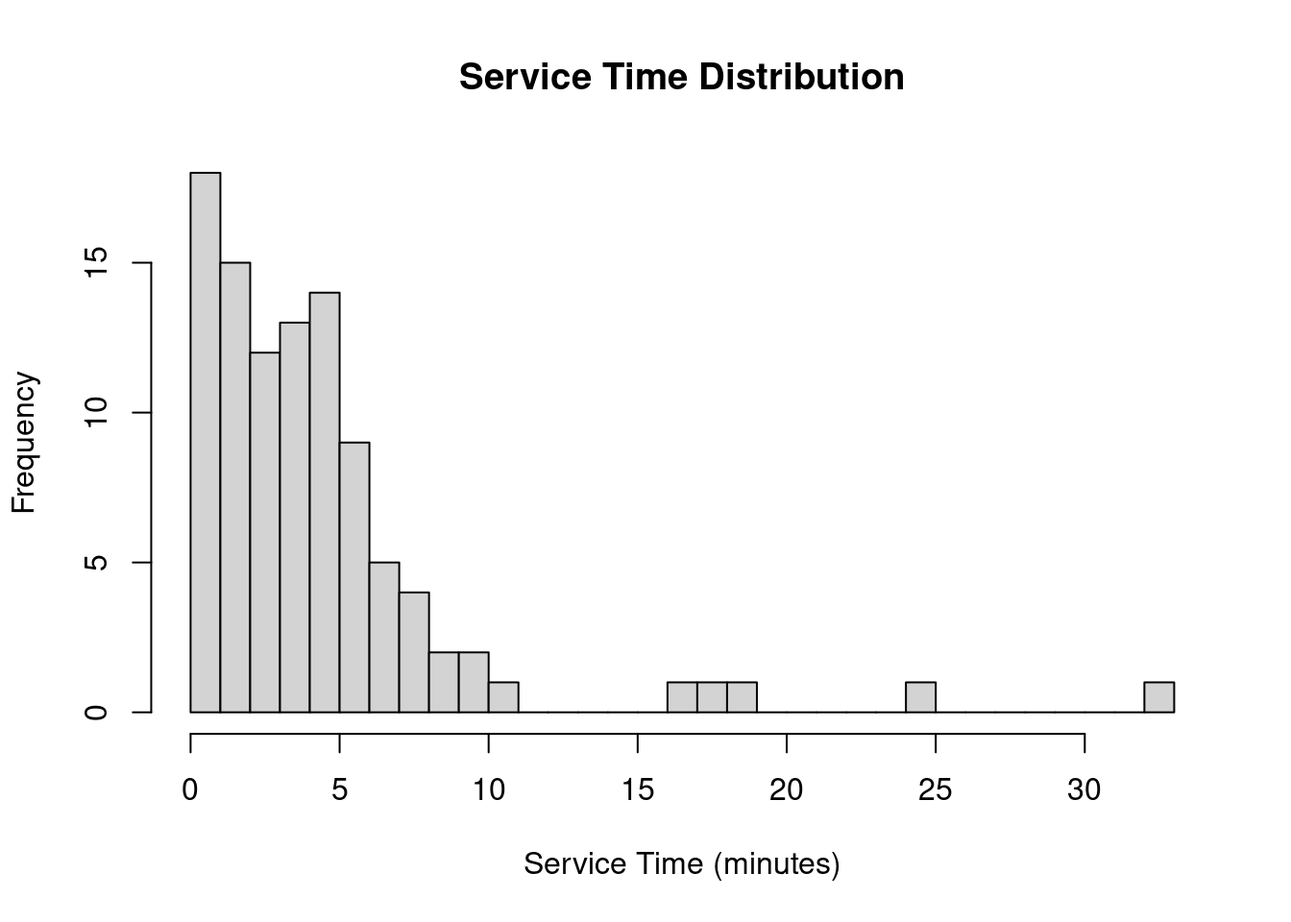
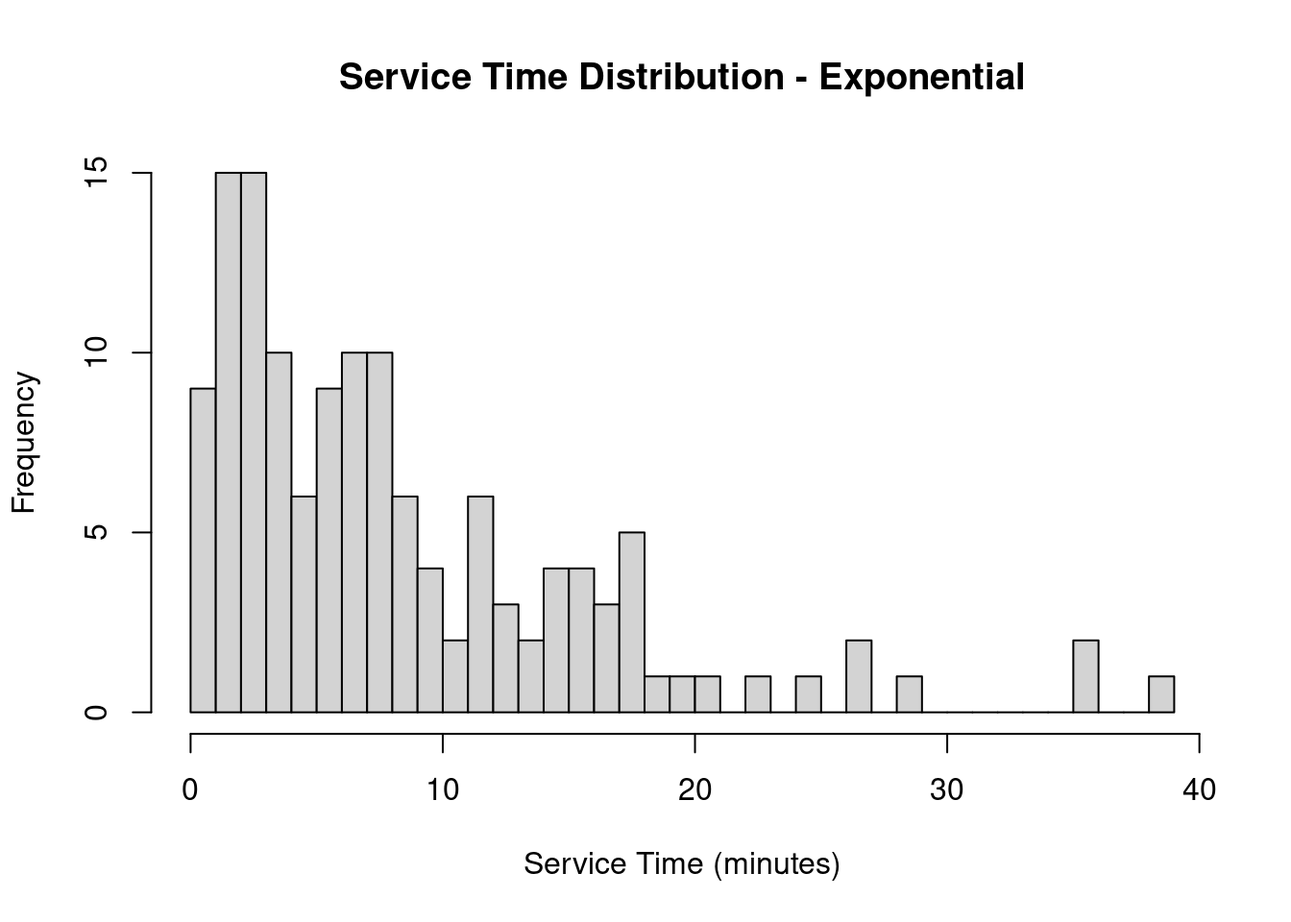
Final Scenario 3 changes

diff --git a/scenario3.html b/scenario3.html
@@ -81,11 +81,11 @@ pre > code.sourceCode > span > a:first-child::before { text-decoration: underlin
 
 
 <div class="cell">
-<div class="sourceCode cell-code" id="cb1"><pre class="sourceCode r code-with-copy"><code class="sourceCode r"><span id="cb1-1"><a href="#cb1-1" aria-hidden="true" tabindex="-1"></a><span class="fu">set.seed</span>(<span class="dv">111</span>)</span>
+<div class="sourceCode cell-code" id="cb1"><pre class="sourceCode r code-with-copy"><code class="sourceCode r"><span id="cb1-1"><a href="#cb1-1" aria-hidden="true" tabindex="-1"></a><span class="fu">set.seed</span>(<span class="dv">223</span>)</span>
 <span id="cb1-2"><a href="#cb1-2" aria-hidden="true" tabindex="-1"></a></span>
 <span id="cb1-3"><a href="#cb1-3" aria-hidden="true" tabindex="-1"></a>time_intervals <span class="ot">&lt;-</span> <span class="fu">c</span>(<span class="dv">0</span>, <span class="dv">120</span>, <span class="dv">300</span>, <span class="dv">420</span>, <span class="dv">720</span>)</span>
-<span id="cb1-4"><a href="#cb1-4" aria-hidden="true" tabindex="-1"></a>arrival_rates <span class="ot">&lt;-</span> <span class="fu">c</span>(<span class="dv">8</span>, <span class="dv">13</span>, <span class="dv">8</span>, <span class="dv">17</span>)</span>
-<span id="cb1-5"><a href="#cb1-5" aria-hidden="true" tabindex="-1"></a>service_rates <span class="ot">&lt;-</span> <span class="fu">c</span>(<span class="dv">4</span>, <span class="dv">4</span>, <span class="dv">4</span>, <span class="dv">4</span>, <span class="dv">4</span>, <span class="dv">4</span>, <span class="dv">4</span>, <span class="dv">6</span>, <span class="dv">6</span>, <span class="dv">6</span>, <span class="dv">6</span>, <span class="dv">6</span>)</span>
+<span id="cb1-4"><a href="#cb1-4" aria-hidden="true" tabindex="-1"></a>arrival_rates <span class="ot">&lt;-</span> <span class="fu">c</span>(<span class="dv">4</span>, <span class="dv">12</span>, <span class="dv">5</span>, <span class="dv">15</span>)</span>
+<span id="cb1-5"><a href="#cb1-5" aria-hidden="true" tabindex="-1"></a>service_rates <span class="ot">&lt;-</span> <span class="fu">c</span>(<span class="dv">6</span>,<span class="dv">6</span>,<span class="dv">6</span>,<span class="dv">6</span>,<span class="dv">6</span>,<span class="dv">6</span>,<span class="dv">6</span>,<span class="dv">9</span>,<span class="dv">9</span>,<span class="dv">9</span>,<span class="dv">9</span>,<span class="dv">9</span>,<span class="dv">9</span>,<span class="dv">9</span>)</span>
 <span id="cb1-6"><a href="#cb1-6" aria-hidden="true" tabindex="-1"></a>n_tables <span class="ot">&lt;-</span> <span class="dv">5</span></span>
 <span id="cb1-7"><a href="#cb1-7" aria-hidden="true" tabindex="-1"></a></span>
 <span id="cb1-8"><a href="#cb1-8" aria-hidden="true" tabindex="-1"></a><span class="co">#exponential rv</span></span>
@@ -124,14 +124,13 @@ pre > code.sourceCode > span > a:first-child::before { text-decoration: underlin
 </figure>
 </div>
 </div>
-<div class="sourceCode cell-code" id="cb2"><pre class="sourceCode r code-with-copy"><code class="sourceCode r"><span id="cb2-1"><a href="#cb2-1" aria-hidden="true" tabindex="-1"></a>service_times <span class="ot">&lt;-</span> <span class="fu">sapply</span>(arrival_times, <span class="cf">function</span>(t) {</span>
+<div class="sourceCode cell-code" id="cb2"><pre class="sourceCode r code-with-copy"><code class="sourceCode r"><span id="cb2-1"><a href="#cb2-1" aria-hidden="true" tabindex="-1"></a>service_times_old <span class="ot">&lt;-</span> <span class="fu">sapply</span>(arrival_times, <span class="cf">function</span>(t) {</span>
 <span id="cb2-2"><a href="#cb2-2" aria-hidden="true" tabindex="-1"></a>  hour <span class="ot">&lt;-</span> <span class="fu">ceiling</span>(t <span class="sc">/</span> <span class="dv">60</span>) </span>
 <span id="cb2-3"><a href="#cb2-3" aria-hidden="true" tabindex="-1"></a>  <span class="fu">rexp</span>(<span class="dv">1</span>, <span class="at">rate =</span> service_rates[hour]<span class="sc">/</span><span class="dv">60</span>)</span>
 <span id="cb2-4"><a href="#cb2-4" aria-hidden="true" tabindex="-1"></a>})</span>
 <span id="cb2-5"><a href="#cb2-5" aria-hidden="true" tabindex="-1"></a></span>
-<span id="cb2-6"><a href="#cb2-6" aria-hidden="true" tabindex="-1"></a>sample_service_times <span class="ot">&lt;-</span> <span class="fu">rexp</span>(<span class="dv">100</span>, <span class="at">rate =</span> <span class="fl">0.2</span>) </span>
-<span id="cb2-7"><a href="#cb2-7" aria-hidden="true" tabindex="-1"></a></span>
-<span id="cb2-8"><a href="#cb2-8" aria-hidden="true" tabindex="-1"></a><span class="fu">hist</span>(sample_service_times, <span class="at">main =</span> <span class="st">"Service Time Distribution"</span>, <span class="at">xlab =</span> <span class="st">"Service Time (minutes)"</span>, <span class="at">breaks =</span> <span class="dv">30</span>)</span></code><button title="Copy to Clipboard" class="code-copy-button"><i class="bi"></i></button></pre></div>
+<span id="cb2-6"><a href="#cb2-6" aria-hidden="true" tabindex="-1"></a></span>
+<span id="cb2-7"><a href="#cb2-7" aria-hidden="true" tabindex="-1"></a><span class="fu">hist</span>(service_times_old, <span class="at">main =</span> <span class="st">"Service Time Distribution - Exponential"</span>, <span class="at">xlab =</span> <span class="st">"Service Time (minutes)"</span>, <span class="at">breaks =</span> <span class="dv">30</span>)</span></code><button title="Copy to Clipboard" class="code-copy-button"><i class="bi"></i></button></pre></div>
 <div class="cell-output-display">
 <div>
 <figure class="figure">
@@ -139,170 +138,14 @@ pre > code.sourceCode > span > a:first-child::before { text-decoration: underlin
 </figure>
 </div>
 </div>
-<div class="sourceCode cell-code" id="cb3"><pre class="sourceCode r code-with-copy"><code class="sourceCode r"><span id="cb3-1"><a href="#cb3-1" aria-hidden="true" tabindex="-1"></a>current_time <span class="ot">&lt;-</span> <span class="dv">0</span></span>
-<span id="cb3-2"><a href="#cb3-2" aria-hidden="true" tabindex="-1"></a>downtime <span class="ot">&lt;-</span> <span class="dv">0</span></span>
-<span id="cb3-3"><a href="#cb3-3" aria-hidden="true" tabindex="-1"></a>queue <span class="ot">&lt;-</span> <span class="fu">c</span>()</span>
-<span id="cb3-4"><a href="#cb3-4" aria-hidden="true" tabindex="-1"></a>queue_lengths <span class="ot">&lt;-</span> <span class="fu">c</span>()</span>
-<span id="cb3-5"><a href="#cb3-5" aria-hidden="true" tabindex="-1"></a>busy_tables <span class="ot">&lt;-</span> <span class="fu">rep</span>(<span class="dv">0</span>, n_tables)</span>
-<span id="cb3-6"><a href="#cb3-6" aria-hidden="true" tabindex="-1"></a>waiting_times <span class="ot">&lt;-</span> <span class="fu">c</span>()</span>
+<div class="sourceCode cell-code" id="cb3"><pre class="sourceCode r code-with-copy"><code class="sourceCode r"><span id="cb3-1"><a href="#cb3-1" aria-hidden="true" tabindex="-1"></a>service_times <span class="ot">&lt;-</span> <span class="fu">sapply</span>(arrival_times, <span class="cf">function</span>(t) {</span>
+<span id="cb3-2"><a href="#cb3-2" aria-hidden="true" tabindex="-1"></a>  hour <span class="ot">&lt;-</span> <span class="fu">ceiling</span>(t <span class="sc">/</span> <span class="dv">60</span>) </span>
+<span id="cb3-3"><a href="#cb3-3" aria-hidden="true" tabindex="-1"></a>  shape <span class="ot">&lt;-</span> <span class="dv">2</span></span>
+<span id="cb3-4"><a href="#cb3-4" aria-hidden="true" tabindex="-1"></a>  rate <span class="ot">&lt;-</span> service_rates[hour] <span class="sc">/</span> <span class="dv">60</span></span>
+<span id="cb3-5"><a href="#cb3-5" aria-hidden="true" tabindex="-1"></a>  <span class="fu">rgamma</span>(<span class="dv">1</span>, <span class="at">shape =</span> shape, <span class="at">rate =</span> rate)</span>
+<span id="cb3-6"><a href="#cb3-6" aria-hidden="true" tabindex="-1"></a>})</span>
 <span id="cb3-7"><a href="#cb3-7" aria-hidden="true" tabindex="-1"></a></span>
-<span id="cb3-8"><a href="#cb3-8" aria-hidden="true" tabindex="-1"></a><span class="cf">for</span> (i <span class="cf">in</span> <span class="fu">seq_along</span>(arrival_times)) {</span>
-<span id="cb3-9"><a href="#cb3-9" aria-hidden="true" tabindex="-1"></a>  next_arrival <span class="ot">&lt;-</span> arrival_times[i]</span>
-<span id="cb3-10"><a href="#cb3-10" aria-hidden="true" tabindex="-1"></a>  <span class="cf">if</span> (<span class="fu">all</span>(busy_tables <span class="sc">==</span> <span class="dv">0</span>) <span class="sc">&amp;&amp;</span> current_time <span class="sc">&lt;</span> next_arrival) {</span>
-<span id="cb3-11"><a href="#cb3-11" aria-hidden="true" tabindex="-1"></a>    downtime <span class="ot">&lt;-</span> downtime <span class="sc">+</span> (next_arrival <span class="sc">-</span> current_time)</span>
-<span id="cb3-12"><a href="#cb3-12" aria-hidden="true" tabindex="-1"></a>    <span class="fu">print</span>(<span class="fu">paste</span>(<span class="st">"Downtime:"</span>, downtime))</span>
-<span id="cb3-13"><a href="#cb3-13" aria-hidden="true" tabindex="-1"></a>  }</span>
-<span id="cb3-14"><a href="#cb3-14" aria-hidden="true" tabindex="-1"></a>  current_time <span class="ot">&lt;-</span> next_arrival</span>
-<span id="cb3-15"><a href="#cb3-15" aria-hidden="true" tabindex="-1"></a>  busy_tables[busy_tables <span class="sc">&lt;=</span> current_time] <span class="ot">&lt;-</span> <span class="dv">0</span></span>
-<span id="cb3-16"><a href="#cb3-16" aria-hidden="true" tabindex="-1"></a>  <span class="cf">if</span> (<span class="fu">any</span>(busy_tables <span class="sc">==</span> <span class="dv">0</span>)) {</span>
-<span id="cb3-17"><a href="#cb3-17" aria-hidden="true" tabindex="-1"></a>    next_table <span class="ot">&lt;-</span> <span class="fu">which</span>(busy_tables <span class="sc">==</span> <span class="dv">0</span>)[<span class="dv">1</span>]</span>
-<span id="cb3-18"><a href="#cb3-18" aria-hidden="true" tabindex="-1"></a>    service_time <span class="ot">&lt;-</span> service_times[i]</span>
-<span id="cb3-19"><a href="#cb3-19" aria-hidden="true" tabindex="-1"></a>    busy_tables[next_table] <span class="ot">&lt;-</span> current_time <span class="sc">+</span> service_time</span>
-<span id="cb3-20"><a href="#cb3-20" aria-hidden="true" tabindex="-1"></a>    <span class="fu">print</span>(<span class="fu">paste</span>(<span class="st">"Seating customer at table"</span>, next_table, <span class="st">"at time:"</span>, current_time, <span class="st">"for service time:"</span>, service_time))</span>
-<span id="cb3-21"><a href="#cb3-21" aria-hidden="true" tabindex="-1"></a>    waiting_times <span class="ot">&lt;-</span> <span class="fu">c</span>(waiting_times, <span class="dv">0</span>)</span>
-<span id="cb3-22"><a href="#cb3-22" aria-hidden="true" tabindex="-1"></a>  } <span class="cf">else</span> {</span>
-<span id="cb3-23"><a href="#cb3-23" aria-hidden="true" tabindex="-1"></a>    queue <span class="ot">&lt;-</span> <span class="fu">c</span>(queue, current_time)</span>
-<span id="cb3-24"><a href="#cb3-24" aria-hidden="true" tabindex="-1"></a>  }</span>
-<span id="cb3-25"><a href="#cb3-25" aria-hidden="true" tabindex="-1"></a>  queue_lengths <span class="ot">&lt;-</span> <span class="fu">c</span>(queue_lengths, <span class="fu">length</span>(queue))</span>
-<span id="cb3-26"><a href="#cb3-26" aria-hidden="true" tabindex="-1"></a>  <span class="cf">while</span> (<span class="fu">length</span>(queue) <span class="sc">&gt;</span> <span class="dv">0</span> <span class="sc">&amp;&amp;</span> <span class="fu">any</span>(busy_tables <span class="sc">==</span> <span class="dv">0</span>)) {</span>
-<span id="cb3-27"><a href="#cb3-27" aria-hidden="true" tabindex="-1"></a>    next_table <span class="ot">&lt;-</span> <span class="fu">which</span>(busy_tables <span class="sc">==</span> <span class="dv">0</span>)[<span class="dv">1</span>]</span>
-<span id="cb3-28"><a href="#cb3-28" aria-hidden="true" tabindex="-1"></a>    wait_time <span class="ot">&lt;-</span> current_time <span class="sc">-</span> queue[<span class="dv">1</span>]</span>
-<span id="cb3-29"><a href="#cb3-29" aria-hidden="true" tabindex="-1"></a>    waiting_times <span class="ot">&lt;-</span> <span class="fu">c</span>(waiting_times, wait_time)</span>
-<span id="cb3-30"><a href="#cb3-30" aria-hidden="true" tabindex="-1"></a>    service_time <span class="ot">&lt;-</span> service_times[i]</span>
-<span id="cb3-31"><a href="#cb3-31" aria-hidden="true" tabindex="-1"></a>    busy_tables[next_table] <span class="ot">&lt;-</span> current_time <span class="sc">+</span> service_time</span>
-<span id="cb3-32"><a href="#cb3-32" aria-hidden="true" tabindex="-1"></a>    queue <span class="ot">&lt;-</span> queue[<span class="sc">-</span><span class="dv">1</span>] </span>
-<span id="cb3-33"><a href="#cb3-33" aria-hidden="true" tabindex="-1"></a>    queue_lengths <span class="ot">&lt;-</span> <span class="fu">c</span>(queue_lengths, <span class="fu">length</span>(queue))</span>
-<span id="cb3-34"><a href="#cb3-34" aria-hidden="true" tabindex="-1"></a>  }</span>
-<span id="cb3-35"><a href="#cb3-35" aria-hidden="true" tabindex="-1"></a>}</span></code><button title="Copy to Clipboard" class="code-copy-button"><i class="bi"></i></button></pre></div>
-<div class="cell-output cell-output-stdout">
-<pre><code>[1] "Downtime: 1.27894140779972"
-[1] "Seating customer at table 1 at time: 1.27894140779972 for service time: 4.99000896932557"
-[1] "Seating customer at table 2 at time: 5.70574239827693 for service time: 11.5611630297139"
-[1] "Seating customer at table 1 at time: 8.05693720467389 for service time: 1.91609330708161"
-[1] "Seating customer at table 1 at time: 11.2417823821306 for service time: 5.32095698862204"
-[1] "Seating customer at table 1 at time: 18.744301898405 for service time: 53.0929295247327"
-[1] "Seating customer at table 2 at time: 20.5732424464077 for service time: 11.7978875425862"
-[1] "Seating customer at table 2 at time: 44.4506404269487 for service time: 7.34908571932465"
-[1] "Seating customer at table 3 at time: 45.3195859026164 for service time: 7.3618605080992"
-[1] "Seating customer at table 4 at time: 50.2004790958017 for service time: 25.8023301778797"
-[1] "Seating customer at table 2 at time: 51.8592739664018 for service time: 1.78684489935833"
-[1] "Seating customer at table 3 at time: 53.5713316127658 for service time: 46.5967430521674"
-[1] "Seating customer at table 2 at time: 61.790859606117 for service time: 28.5764023649011"
-[1] "Seating customer at table 5 at time: 63.8754290621728 for service time: 7.84265496768057"
-[1] "Seating customer at table 1 at time: 115.984115190804 for service time: 0.838023440546181"
-[1] "Seating customer at table 1 at time: 125.898896539584 for service time: 34.402396634911"
-[1] "Seating customer at table 2 at time: 130.54736324586 for service time: 21.9680363222815"
-[1] "Seating customer at table 3 at time: 140.936786709353 for service time: 7.54442345914747"
-[1] "Seating customer at table 1 at time: 170.994629943743 for service time: 32.0763921768742"
-[1] "Seating customer at table 2 at time: 171.394876465201 for service time: 2.43470409186557"
-[1] "Seating customer at table 2 at time: 177.964810947888 for service time: 23.3128203564427"
-[1] "Seating customer at table 3 at time: 179.128496171907 for service time: 27.0416701944981"
-[1] "Seating customer at table 4 at time: 179.939042469487 for service time: 2.11209669476375"
-[1] "Seating customer at table 5 at time: 181.587242474779 for service time: 24.4442041485075"
-[1] "Seating customer at table 4 at time: 184.754166975617 for service time: 17.9602010293507"
-[1] "Seating customer at table 1 at time: 203.842637334019 for service time: 14.4208915990995"
-[1] "Seating customer at table 3 at time: 211.781974802725 for service time: 2.86719965049997"
-[1] "Seating customer at table 1 at time: 218.689206582494 for service time: 11.3737117946452"
-[1] "Seating customer at table 3 at time: 223.543596784584 for service time: 7.52846368588507"
-[1] "Seating customer at table 4 at time: 225.308049763553 for service time: 34.6234531216046"
-[1] "Seating customer at table 5 at time: 227.265714327805 for service time: 7.91566439459352"
-[1] "Seating customer at table 1 at time: 233.039203262888 for service time: 4.59619092056528"
-[1] "Seating customer at table 2 at time: 234.424371812493 for service time: 0.875416717548305"
-[1] "Seating customer at table 2 at time: 235.415614508092 for service time: 1.61187532274381"
-[1] "Seating customer at table 3 at time: 235.585327888839 for service time: 3.43397245975211"
-[1] "Seating customer at table 2 at time: 237.581301857717 for service time: 35.5592003538927"
-[1] "Seating customer at table 1 at time: 248.41386354994 for service time: 2.06347739199293"
-[1] "Seating customer at table 1 at time: 250.529669984244 for service time: 29.2899150854412"
-[1] "Seating customer at table 3 at time: 261.118671717122 for service time: 5.54471567777009"
-[1] "Seating customer at table 4 at time: 261.737025459297 for service time: 1.20579633163288"
-[1] "Seating customer at table 5 at time: 262.879615779966 for service time: 2.20451671862975"
-[1] "Seating customer at table 4 at time: 264.918164410628 for service time: 2.40702966740006"
-[1] "Seating customer at table 2 at time: 274.065948813222 for service time: 0.57334143693932"
-[1] "Seating customer at table 1 at time: 287.133448426612 for service time: 32.5353821254989"
-[1] "Seating customer at table 2 at time: 294.154946208 for service time: 13.7606545065735"
-[1] "Seating customer at table 3 at time: 299.408999048173 for service time: 67.7519227340262"
-[1] "Seating customer at table 4 at time: 300.111036077142 for service time: 28.5272745216701"
-[1] "Seating customer at table 5 at time: 301.407097801566 for service time: 8.16001716535538"
-[1] "Seating customer at table 2 at time: 311.58942785114 for service time: 5.00886627472937"
-[1] "Seating customer at table 1 at time: 320.791304754093 for service time: 18.9060795440556"
-[1] "Seating customer at table 5 at time: 327.831550128758 for service time: 11.7727272066506"
-[1] "Seating customer at table 4 at time: 331.106707770377 for service time: 12.6865127071025"
-[1] "Seating customer at table 1 at time: 354.451780160889 for service time: 7.1275767730549"
-[1] "Seating customer at table 5 at time: 356.009285654873 for service time: 1.93290903232992"
-[1] "Seating customer at table 1 at time: 379.833447318524 for service time: 11.5940851851584"
-[1] "Seating customer at table 1 at time: 396.664821021259 for service time: 2.4748663432071"
-[1] "Seating customer at table 1 at time: 405.310073532164 for service time: 9.2954975925386"
-[1] "Seating customer at table 2 at time: 410.313849784434 for service time: 26.0807719098765"
-[1] "Seating customer at table 1 at time: 423.63551331684 for service time: 0.88959150376599"
-[1] "Seating customer at table 1 at time: 431.648712912574 for service time: 6.11083668190986"
-[1] "Seating customer at table 3 at time: 433.936981838197 for service time: 9.44566878208868"
-[1] "Seating customer at table 1 at time: 443.754278873093 for service time: 6.16353428922594"
-[1] "Seating customer at table 2 at time: 445.984204094857 for service time: 7.14249451712308"
-[1] "Seating customer at table 3 at time: 447.114304807037 for service time: 5.78041905071586"
-[1] "Seating customer at table 4 at time: 448.53724595625 for service time: 7.06320415208948"
-[1] "Seating customer at table 1 at time: 451.360365380533 for service time: 2.28182554710656"
-[1] "Seating customer at table 2 at time: 453.595709572546 for service time: 1.61187607795"
-[1] "Seating customer at table 1 at time: 455.955654527061 for service time: 0.0328358133051269"
-[1] "Seating customer at table 1 at time: 459.034913945943 for service time: 9.25055621923733"
-[1] "Seating customer at table 2 at time: 459.329420076683 for service time: 4.6517775096672"
-[1] "Seating customer at table 3 at time: 460.864676283672 for service time: 22.5849385889872"
-[1] "Seating customer at table 1 at time: 469.315477930941 for service time: 2.65867650043219"
-[1] "Seating customer at table 1 at time: 472.885418152437 for service time: 2.82383863348514"
-[1] "Seating customer at table 1 at time: 479.526883112267 for service time: 11.1716833240808"
-[1] "Seating customer at table 2 at time: 483.019201252609 for service time: 9.65629785279644"
-[1] "Seating customer at table 3 at time: 484.696431602351 for service time: 14.8276489592137"
-[1] "Seating customer at table 1 at time: 493.83444509469 for service time: 6.55286858323961"
-[1] "Seating customer at table 2 at time: 495.397085817531 for service time: 8.80801386157882"
-[1] "Seating customer at table 4 at time: 499.153884295374 for service time: 6.35277015157044"
-[1] "Seating customer at table 5 at time: 499.264166532084 for service time: 3.14251281423027"
-[1] "Seating customer at table 3 at time: 500.108601646498 for service time: 3.03093639202416"
-[1] "Seating customer at table 1 at time: 508.121277512982 for service time: 3.98288077209145"
-[1] "Seating customer at table 1 at time: 525.289622442797 for service time: 1.00819880608469"
-[1] "Seating customer at table 2 at time: 525.447993194684 for service time: 6.34244672488421"
-[1] "Seating customer at table 1 at time: 532.439939752221 for service time: 7.72982077631068"
-[1] "Seating customer at table 2 at time: 536.14492891822 for service time: 1.30489839071995"
-[1] "Seating customer at table 2 at time: 539.426844315603 for service time: 1.33092812728137"
-[1] "Seating customer at table 3 at time: 540.101362885907 for service time: 6.08273030724376"
-[1] "Seating customer at table 1 at time: 544.298044340685 for service time: 7.14246105360699"
-[1] "Seating customer at table 1 at time: 554.512018435635 for service time: 1.38875148724765"
-[1] "Seating customer at table 1 at time: 556.631492315792 for service time: 8.76914294394565"
-[1] "Seating customer at table 2 at time: 558.253388064913 for service time: 10.7366318903388"
-[1] "Seating customer at table 3 at time: 563.575991154648 for service time: 10.5517501566083"
-[1] "Seating customer at table 1 at time: 573.329695388675 for service time: 2.16839378233999"
-[1] "Seating customer at table 2 at time: 574.385886294767 for service time: 1.33105030748993"
-[1] "Seating customer at table 1 at time: 584.673814550042 for service time: 27.1577257464144"
-[1] "Seating customer at table 2 at time: 588.977360730059 for service time: 9.95265422346902"
-[1] "Seating customer at table 3 at time: 590.849325251766 for service time: 7.67972381485285"
-[1] "Seating customer at table 4 at time: 592.799118049443 for service time: 0.785282379947603"
-[1] "Seating customer at table 4 at time: 593.701772396453 for service time: 0.668709171004593"
-[1] "Seating customer at table 5 at time: 593.995604971424 for service time: 6.33270762395114"
-[1] "Seating customer at table 2 at time: 604.758997731842 for service time: 8.9941723454268"
-[1] "Seating customer at table 4 at time: 605.135852149688 for service time: 24.6175244624231"
-[1] "Seating customer at table 5 at time: 608.946346845478 for service time: 26.4617202232096"
-[1] "Seating customer at table 1 at time: 612.018696153536 for service time: 8.75247634343408"
-[1] "Seating customer at table 2 at time: 615.276328129694 for service time: 9.79992653819334"
-[1] "Seating customer at table 1 at time: 624.058593744412 for service time: 4.17881041299552"
-[1] "Seating customer at table 2 at time: 625.435805115849 for service time: 5.10650013573468"
-[1] "Seating customer at table 1 at time: 640.431802701205 for service time: 5.15621345490217"
-[1] "Seating customer at table 1 at time: 651.284320936538 for service time: 8.81122489417803"
-[1] "Seating customer at table 5 at time: 654.433019114658 for service time: 15.7164195061651"
-[1] "Seating customer at table 1 at time: 665.649100025184 for service time: 17.9505378372016"
-[1] "Seating customer at table 3 at time: 665.911567797884 for service time: 6.38695605564862"
-[1] "Seating customer at table 4 at time: 667.344660270028 for service time: 11.2020430989088"
-[1] "Seating customer at table 5 at time: 670.806034519337 for service time: 18.7390661231222"
-[1] "Seating customer at table 3 at time: 674.108187952079 for service time: 14.534786659384"
-[1] "Seating customer at table 4 at time: 681.191911180504 for service time: 12.7137394897164"
-[1] "Seating customer at table 1 at time: 684.364640135318 for service time: 38.5387048663056"
-[1] "Seating customer at table 3 at time: 691.171301370487 for service time: 0.820740358904004"
-[1] "Seating customer at table 3 at time: 695.991593138315 for service time: 12.2348552193017"
-[1] "Seating customer at table 3 at time: 709.18393899221 for service time: 26.6934985841129"</code></pre>
-</div>
-<div class="sourceCode cell-code" id="cb5"><pre class="sourceCode r code-with-copy"><code class="sourceCode r"><span id="cb5-1"><a href="#cb5-1" aria-hidden="true" tabindex="-1"></a><span class="fu">plot</span>(queue_lengths, <span class="at">type =</span> <span class="st">"l"</span>, <span class="at">xlab =</span> <span class="st">"Time"</span>, <span class="at">ylab =</span> <span class="st">"Queue Length"</span>, </span>
-<span id="cb5-2"><a href="#cb5-2" aria-hidden="true" tabindex="-1"></a>     <span class="at">main =</span> <span class="st">"Queue Length Over Time"</span>, <span class="at">col =</span> <span class="st">"blue"</span>, <span class="at">lwd =</span> <span class="dv">2</span>, </span>
-<span id="cb5-3"><a href="#cb5-3" aria-hidden="true" tabindex="-1"></a>     <span class="at">xaxt =</span> <span class="st">"n"</span>, <span class="at">xlim =</span> <span class="fu">c</span>(<span class="dv">0</span>, <span class="fu">length</span>(queue_lengths)))</span>
-<span id="cb5-4"><a href="#cb5-4" aria-hidden="true" tabindex="-1"></a></span>
-<span id="cb5-5"><a href="#cb5-5" aria-hidden="true" tabindex="-1"></a><span class="fu">axis</span>(<span class="dv">1</span>, <span class="at">at =</span> <span class="fu">seq</span>(<span class="dv">1</span>, <span class="fu">length</span>(queue_lengths), <span class="at">by =</span> <span class="fu">length</span>(queue_lengths) <span class="sc">/</span> <span class="dv">12</span>), </span>
-<span id="cb5-6"><a href="#cb5-6" aria-hidden="true" tabindex="-1"></a>     <span class="at">labels =</span> <span class="fu">paste</span>(<span class="dv">10</span> <span class="sc">+</span> (<span class="fu">seq</span>(<span class="dv">1</span>, <span class="fu">length</span>(queue_lengths), <span class="at">by =</span> <span class="fu">length</span>(queue_lengths) <span class="sc">/</span> <span class="dv">12</span>) <span class="sc">-</span> <span class="dv">1</span>) <span class="sc">/</span> (<span class="fu">length</span>(queue_lengths) <span class="sc">/</span> <span class="dv">12</span>), <span class="st">"HRS"</span>, <span class="at">sep=</span><span class="st">""</span>))</span></code><button title="Copy to Clipboard" class="code-copy-button"><i class="bi"></i></button></pre></div>
+<span id="cb3-8"><a href="#cb3-8" aria-hidden="true" tabindex="-1"></a><span class="fu">hist</span>(service_times, <span class="at">main =</span> <span class="st">"Service Time Distribution - Gamma"</span>, <span class="at">xlab =</span> <span class="st">"Service Time (minutes)"</span>, <span class="at">breaks =</span> <span class="dv">30</span>)</span></code><button title="Copy to Clipboard" class="code-copy-button"><i class="bi"></i></button></pre></div>
 <div class="cell-output-display">
 <div>
 <figure class="figure">
@@ -310,15 +153,77 @@ pre > code.sourceCode > span > a:first-child::before { text-decoration: underlin
 </figure>
 </div>
 </div>
-<div class="sourceCode cell-code" id="cb6"><pre class="sourceCode r code-with-copy"><code class="sourceCode r"><span id="cb6-1"><a href="#cb6-1" aria-hidden="true" tabindex="-1"></a>avg_wait_time <span class="ot">&lt;-</span> <span class="cf">if</span> (<span class="fu">length</span>(waiting_times) <span class="sc">&gt;</span> <span class="dv">0</span>) <span class="fu">mean</span>(waiting_times) <span class="cf">else</span> <span class="dv">0</span></span>
-<span id="cb6-2"><a href="#cb6-2" aria-hidden="true" tabindex="-1"></a></span>
-<span id="cb6-3"><a href="#cb6-3" aria-hidden="true" tabindex="-1"></a><span class="fu">cat</span>(<span class="st">"Average Waiting Time Across All Customers:"</span>, avg_wait_time, <span class="st">"minutes</span><span class="sc">\n</span><span class="st">"</span>)</span></code><button title="Copy to Clipboard" class="code-copy-button"><i class="bi"></i></button></pre></div>
-<div class="cell-output cell-output-stdout">
-<pre><code>Average Waiting Time Across All Customers: 3.022725 minutes</code></pre>
+<div class="sourceCode cell-code" id="cb4"><pre class="sourceCode r code-with-copy"><code class="sourceCode r"><span id="cb4-1"><a href="#cb4-1" aria-hidden="true" tabindex="-1"></a>current_time <span class="ot">&lt;-</span> <span class="dv">0</span></span>
+<span id="cb4-2"><a href="#cb4-2" aria-hidden="true" tabindex="-1"></a>downtime <span class="ot">&lt;-</span> <span class="dv">0</span></span>
+<span id="cb4-3"><a href="#cb4-3" aria-hidden="true" tabindex="-1"></a>queue <span class="ot">&lt;-</span> <span class="fu">c</span>()</span>
+<span id="cb4-4"><a href="#cb4-4" aria-hidden="true" tabindex="-1"></a>queue_lengths <span class="ot">&lt;-</span> <span class="fu">c</span>()</span>
+<span id="cb4-5"><a href="#cb4-5" aria-hidden="true" tabindex="-1"></a>busy_tables <span class="ot">&lt;-</span> <span class="fu">rep</span>(<span class="dv">0</span>, n_tables)</span>
+<span id="cb4-6"><a href="#cb4-6" aria-hidden="true" tabindex="-1"></a>waiting_times <span class="ot">&lt;-</span> <span class="fu">c</span>()</span>
+<span id="cb4-7"><a href="#cb4-7" aria-hidden="true" tabindex="-1"></a>queue_waiting_times <span class="ot">&lt;-</span> <span class="fu">c</span>()</span>
+<span id="cb4-8"><a href="#cb4-8" aria-hidden="true" tabindex="-1"></a></span>
+<span id="cb4-9"><a href="#cb4-9" aria-hidden="true" tabindex="-1"></a><span class="cf">for</span> (i <span class="cf">in</span> <span class="fu">seq_along</span>(arrival_times)) {</span>
+<span id="cb4-10"><a href="#cb4-10" aria-hidden="true" tabindex="-1"></a>  next_arrival <span class="ot">&lt;-</span> arrival_times[i<span class="sc">+</span><span class="dv">1</span>]</span>
+<span id="cb4-11"><a href="#cb4-11" aria-hidden="true" tabindex="-1"></a>  current_time <span class="ot">&lt;-</span> arrival_times[i]</span>
+<span id="cb4-12"><a href="#cb4-12" aria-hidden="true" tabindex="-1"></a>  <span class="cf">if</span>(<span class="fu">all</span>(busy_tables <span class="sc">&lt;=</span> current_time)){</span>
+<span id="cb4-13"><a href="#cb4-13" aria-hidden="true" tabindex="-1"></a>    <span class="co">#print(paste("All tables free"))</span></span>
+<span id="cb4-14"><a href="#cb4-14" aria-hidden="true" tabindex="-1"></a>  }</span>
+<span id="cb4-15"><a href="#cb4-15" aria-hidden="true" tabindex="-1"></a>  <span class="cf">if</span> (<span class="fu">all</span>(busy_tables <span class="sc">&lt;=</span> current_time) <span class="sc">&amp;&amp;</span> <span class="fu">length</span>(queue) <span class="sc">==</span> <span class="dv">0</span>) {</span>
+<span id="cb4-16"><a href="#cb4-16" aria-hidden="true" tabindex="-1"></a>    downtime <span class="ot">&lt;-</span> downtime <span class="sc">+</span> (next_arrival <span class="sc">-</span> current_time)</span>
+<span id="cb4-17"><a href="#cb4-17" aria-hidden="true" tabindex="-1"></a>    <span class="co">#print(paste("Downtime:", downtime))</span></span>
+<span id="cb4-18"><a href="#cb4-18" aria-hidden="true" tabindex="-1"></a>  }</span>
+<span id="cb4-19"><a href="#cb4-19" aria-hidden="true" tabindex="-1"></a>  busy_tables[busy_tables <span class="sc">&lt;=</span> current_time] <span class="ot">&lt;-</span> <span class="dv">0</span></span>
+<span id="cb4-20"><a href="#cb4-20" aria-hidden="true" tabindex="-1"></a>  <span class="cf">if</span> (<span class="fu">any</span>(busy_tables <span class="sc">==</span> <span class="dv">0</span>)) {</span>
+<span id="cb4-21"><a href="#cb4-21" aria-hidden="true" tabindex="-1"></a>    next_table <span class="ot">&lt;-</span> <span class="fu">which</span>(busy_tables <span class="sc">==</span> <span class="dv">0</span>)[<span class="dv">1</span>]</span>
+<span id="cb4-22"><a href="#cb4-22" aria-hidden="true" tabindex="-1"></a>    service_time <span class="ot">&lt;-</span> service_times[i]</span>
+<span id="cb4-23"><a href="#cb4-23" aria-hidden="true" tabindex="-1"></a>    busy_tables[next_table] <span class="ot">&lt;-</span> current_time <span class="sc">+</span> service_time</span>
+<span id="cb4-24"><a href="#cb4-24" aria-hidden="true" tabindex="-1"></a>    <span class="co">#print(paste("Seating customer at table", next_table, "at time:", current_time, "for service time:", service_time))</span></span>
+<span id="cb4-25"><a href="#cb4-25" aria-hidden="true" tabindex="-1"></a>    waiting_times <span class="ot">&lt;-</span> <span class="fu">c</span>(waiting_times, <span class="dv">0</span>)</span>
+<span id="cb4-26"><a href="#cb4-26" aria-hidden="true" tabindex="-1"></a>  } <span class="cf">else</span> {</span>
+<span id="cb4-27"><a href="#cb4-27" aria-hidden="true" tabindex="-1"></a>    queue <span class="ot">&lt;-</span> <span class="fu">c</span>(queue, current_time)</span>
+<span id="cb4-28"><a href="#cb4-28" aria-hidden="true" tabindex="-1"></a>  }</span>
+<span id="cb4-29"><a href="#cb4-29" aria-hidden="true" tabindex="-1"></a>  queue_lengths <span class="ot">&lt;-</span> <span class="fu">c</span>(queue_lengths, <span class="fu">length</span>(queue))</span>
+<span id="cb4-30"><a href="#cb4-30" aria-hidden="true" tabindex="-1"></a>  <span class="cf">while</span> (<span class="fu">length</span>(queue) <span class="sc">&gt;</span> <span class="dv">0</span> <span class="sc">&amp;&amp;</span> <span class="fu">any</span>(busy_tables <span class="sc">==</span> <span class="dv">0</span>)) {</span>
+<span id="cb4-31"><a href="#cb4-31" aria-hidden="true" tabindex="-1"></a>    next_table <span class="ot">&lt;-</span> <span class="fu">which</span>(busy_tables <span class="sc">==</span> <span class="dv">0</span>)[<span class="dv">1</span>]</span>
+<span id="cb4-32"><a href="#cb4-32" aria-hidden="true" tabindex="-1"></a>    wait_time <span class="ot">&lt;-</span> current_time <span class="sc">-</span> queue[<span class="dv">1</span>]</span>
+<span id="cb4-33"><a href="#cb4-33" aria-hidden="true" tabindex="-1"></a>    waiting_times <span class="ot">&lt;-</span> <span class="fu">c</span>(waiting_times, wait_time)</span>
+<span id="cb4-34"><a href="#cb4-34" aria-hidden="true" tabindex="-1"></a>    queue_waiting_times <span class="ot">&lt;-</span> <span class="fu">c</span>(queue_waiting_times, wait_time)</span>
+<span id="cb4-35"><a href="#cb4-35" aria-hidden="true" tabindex="-1"></a>    service_time <span class="ot">&lt;-</span> service_times[i]</span>
+<span id="cb4-36"><a href="#cb4-36" aria-hidden="true" tabindex="-1"></a>    busy_tables[next_table] <span class="ot">&lt;-</span> current_time <span class="sc">+</span> service_time</span>
+<span id="cb4-37"><a href="#cb4-37" aria-hidden="true" tabindex="-1"></a>    queue <span class="ot">&lt;-</span> queue[<span class="sc">-</span><span class="dv">1</span>] </span>
+<span id="cb4-38"><a href="#cb4-38" aria-hidden="true" tabindex="-1"></a>    queue_lengths <span class="ot">&lt;-</span> <span class="fu">c</span>(queue_lengths, <span class="fu">length</span>(queue))</span>
+<span id="cb4-39"><a href="#cb4-39" aria-hidden="true" tabindex="-1"></a>  }</span>
+<span id="cb4-40"><a href="#cb4-40" aria-hidden="true" tabindex="-1"></a>}</span>
+<span id="cb4-41"><a href="#cb4-41" aria-hidden="true" tabindex="-1"></a></span>
+<span id="cb4-42"><a href="#cb4-42" aria-hidden="true" tabindex="-1"></a>first_downtime <span class="ot">&lt;-</span> arrival_times[<span class="dv">1</span>]</span>
+<span id="cb4-43"><a href="#cb4-43" aria-hidden="true" tabindex="-1"></a>total_dowtime <span class="ot">&lt;-</span> downtime <span class="sc">+</span> first_downtime</span>
+<span id="cb4-44"><a href="#cb4-44" aria-hidden="true" tabindex="-1"></a></span>
+<span id="cb4-45"><a href="#cb4-45" aria-hidden="true" tabindex="-1"></a><span class="fu">plot</span>(queue_lengths, <span class="at">type =</span> <span class="st">"l"</span>, <span class="at">xlab =</span> <span class="st">"Time"</span>, <span class="at">ylab =</span> <span class="st">"Queue Length"</span>, </span>
+<span id="cb4-46"><a href="#cb4-46" aria-hidden="true" tabindex="-1"></a>     <span class="at">main =</span> <span class="st">"Queue Length Over Time"</span>, <span class="at">col =</span> <span class="st">"blue"</span>, <span class="at">lwd =</span> <span class="dv">2</span>, </span>
+<span id="cb4-47"><a href="#cb4-47" aria-hidden="true" tabindex="-1"></a>     <span class="at">xaxt =</span> <span class="st">"n"</span>, <span class="at">xlim =</span> <span class="fu">c</span>(<span class="dv">0</span>, <span class="fu">length</span>(queue_lengths)))</span>
+<span id="cb4-48"><a href="#cb4-48" aria-hidden="true" tabindex="-1"></a></span>
+<span id="cb4-49"><a href="#cb4-49" aria-hidden="true" tabindex="-1"></a><span class="fu">axis</span>(<span class="dv">1</span>, <span class="at">at =</span> <span class="fu">seq</span>(<span class="dv">1</span>, <span class="fu">length</span>(queue_lengths), <span class="at">by =</span> <span class="fu">length</span>(queue_lengths) <span class="sc">/</span> <span class="dv">12</span>), </span>
+<span id="cb4-50"><a href="#cb4-50" aria-hidden="true" tabindex="-1"></a>     <span class="at">labels =</span> <span class="fu">paste</span>(<span class="dv">10</span> <span class="sc">+</span> (<span class="fu">seq</span>(<span class="dv">1</span>, <span class="fu">length</span>(queue_lengths), <span class="at">by =</span> <span class="fu">length</span>(queue_lengths) <span class="sc">/</span> <span class="dv">12</span>) <span class="sc">-</span> <span class="dv">1</span>) <span class="sc">/</span> (<span class="fu">length</span>(queue_lengths) <span class="sc">/</span> <span class="dv">12</span>), <span class="st">"HRS"</span>, <span class="at">sep=</span><span class="st">""</span>))</span></code><button title="Copy to Clipboard" class="code-copy-button"><i class="bi"></i></button></pre></div>
+<div class="cell-output-display">
+<div>
+<figure class="figure">
+<p><img src="scenario3_files/figure-html/unnamed-chunk-1-4.png" class="img-fluid figure-img" width="672"></p>
+</figure>
 </div>
-<div class="sourceCode cell-code" id="cb8"><pre class="sourceCode r code-with-copy"><code class="sourceCode r"><span id="cb8-1"><a href="#cb8-1" aria-hidden="true" tabindex="-1"></a><span class="fu">cat</span>(<span class="st">"Total Downtime:"</span>, downtime, <span class="st">"minutes</span><span class="sc">\n</span><span class="st">"</span>)</span></code><button title="Copy to Clipboard" class="code-copy-button"><i class="bi"></i></button></pre></div>
+</div>
+<div class="sourceCode cell-code" id="cb5"><pre class="sourceCode r code-with-copy"><code class="sourceCode r"><span id="cb5-1"><a href="#cb5-1" aria-hidden="true" tabindex="-1"></a>avg_wait_time <span class="ot">&lt;-</span> <span class="cf">if</span> (<span class="fu">length</span>(waiting_times) <span class="sc">&gt;</span> <span class="dv">0</span>) <span class="fu">mean</span>(waiting_times) <span class="cf">else</span> <span class="dv">0</span></span>
+<span id="cb5-2"><a href="#cb5-2" aria-hidden="true" tabindex="-1"></a>avg_wait_time_queue <span class="ot">&lt;-</span> <span class="cf">if</span> (<span class="fu">length</span>(queue_waiting_times) <span class="sc">&gt;</span> <span class="dv">0</span>) <span class="fu">mean</span>(queue_waiting_times) <span class="cf">else</span> <span class="dv">0</span></span>
+<span id="cb5-3"><a href="#cb5-3" aria-hidden="true" tabindex="-1"></a></span>
+<span id="cb5-4"><a href="#cb5-4" aria-hidden="true" tabindex="-1"></a><span class="fu">cat</span>(<span class="st">"Average Waiting Time Across All Customers:"</span>, avg_wait_time, <span class="st">"minutes</span><span class="sc">\n</span><span class="st">"</span>)</span></code><button title="Copy to Clipboard" class="code-copy-button"><i class="bi"></i></button></pre></div>
 <div class="cell-output cell-output-stdout">
-<pre><code>Total Downtime: 1.278941 minutes</code></pre>
+<pre><code>Average Waiting Time Across All Customers: 3.875362 minutes</code></pre>
+</div>
+<div class="sourceCode cell-code" id="cb7"><pre class="sourceCode r code-with-copy"><code class="sourceCode r"><span id="cb7-1"><a href="#cb7-1" aria-hidden="true" tabindex="-1"></a><span class="fu">cat</span>(<span class="st">"Average Waiting Time in Queue:"</span>, avg_wait_time_queue, <span class="st">"minutes</span><span class="sc">\n</span><span class="st">"</span>)</span></code><button title="Copy to Clipboard" class="code-copy-button"><i class="bi"></i></button></pre></div>
+<div class="cell-output cell-output-stdout">
+<pre><code>Average Waiting Time in Queue: 19.23328 minutes</code></pre>
+</div>
+<div class="sourceCode cell-code" id="cb9"><pre class="sourceCode r code-with-copy"><code class="sourceCode r"><span id="cb9-1"><a href="#cb9-1" aria-hidden="true" tabindex="-1"></a><span class="fu">cat</span>(<span class="st">"Total Downtime:"</span>, total_dowtime, <span class="st">"minutes</span><span class="sc">\n</span><span class="st">"</span>)</span></code><button title="Copy to Clipboard" class="code-copy-button"><i class="bi"></i></button></pre></div>
+<div class="cell-output cell-output-stdout">
+<pre><code>Total Downtime: 51.94565 minutes</code></pre>
 </div>
 </div>
 
